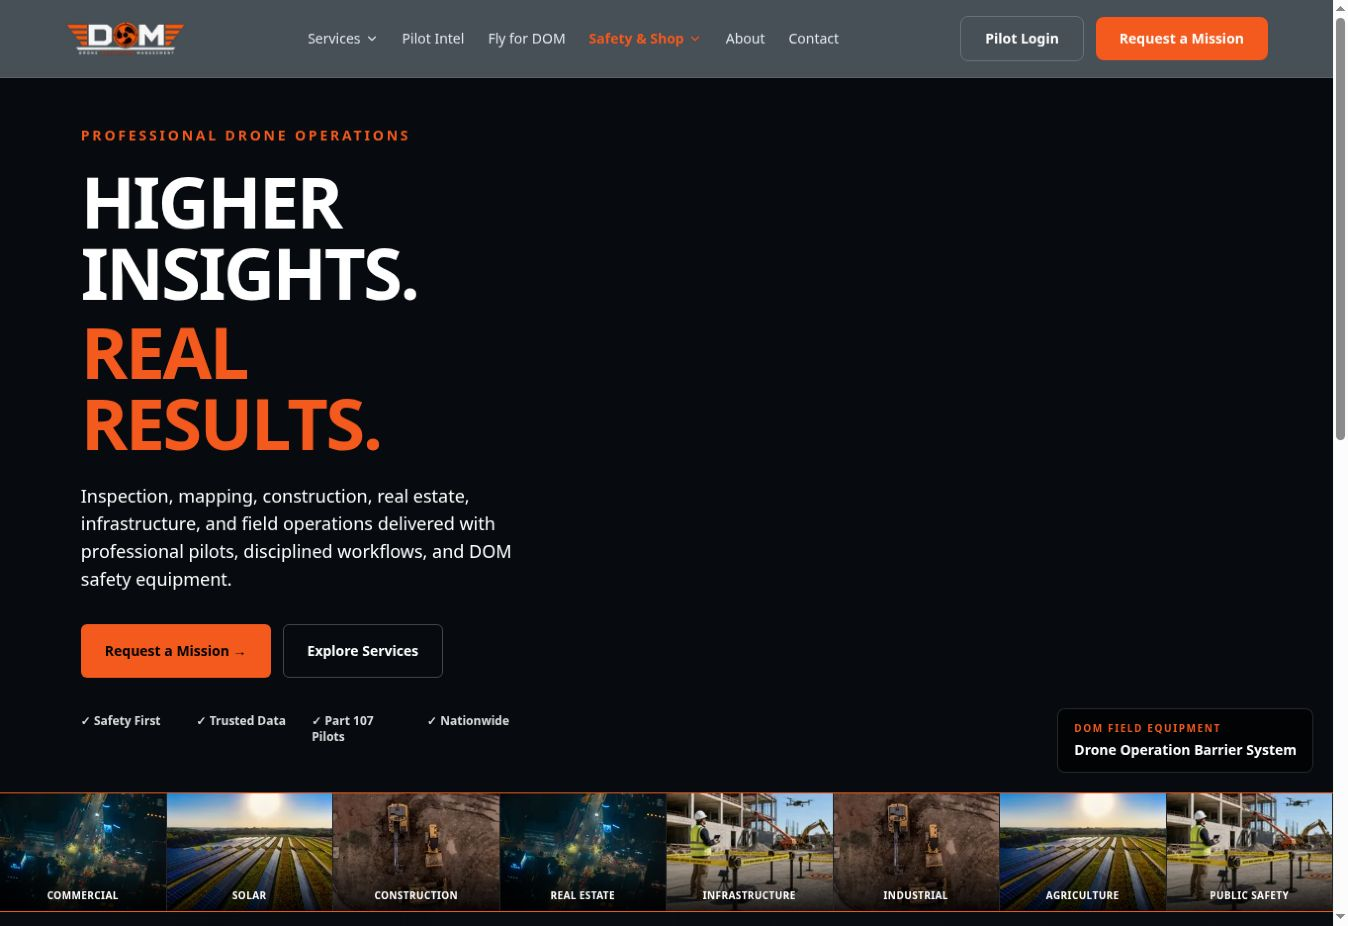
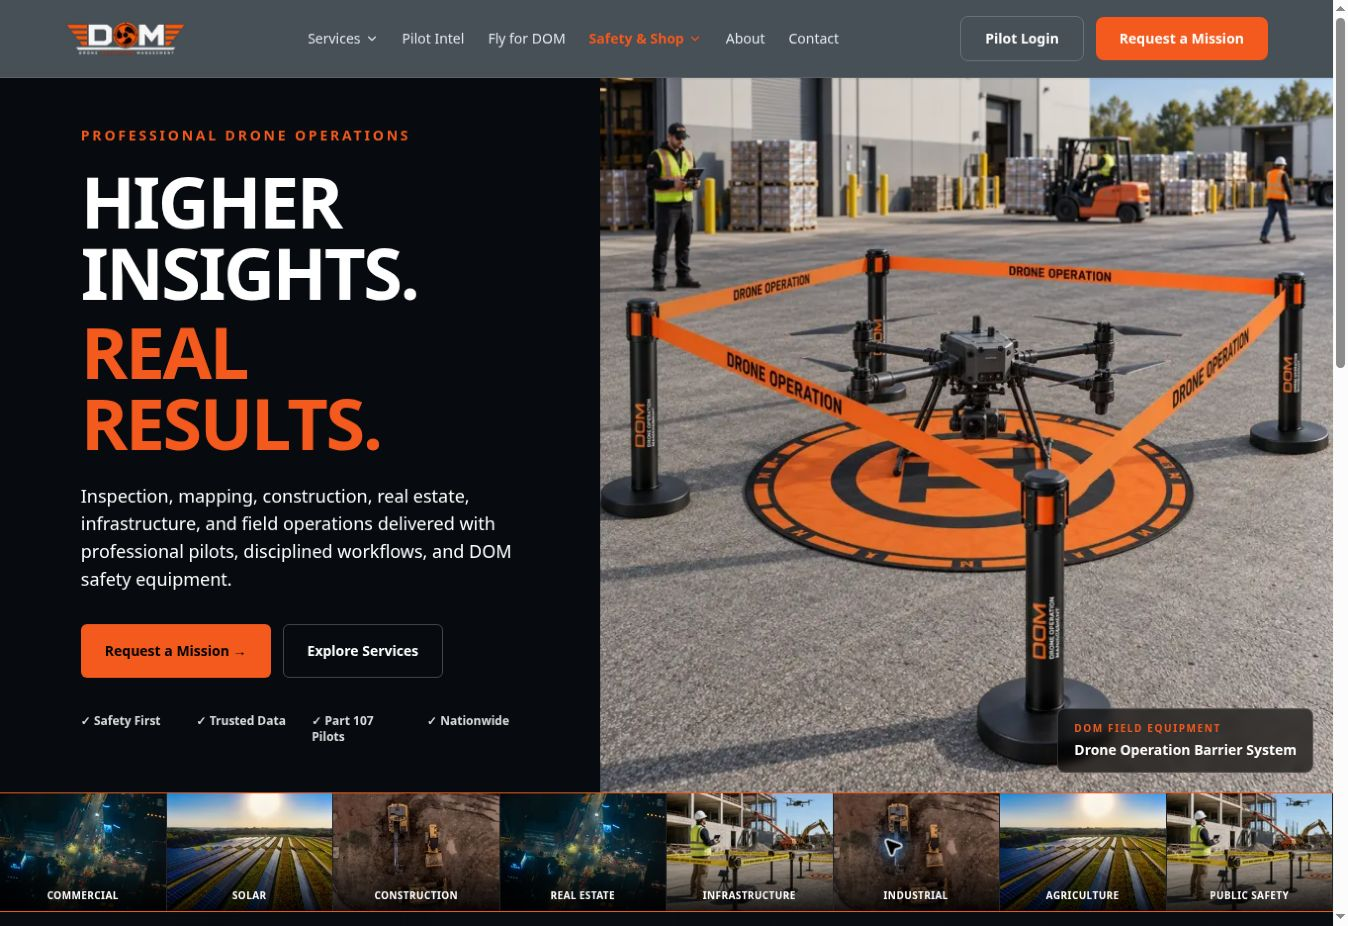
Refresh DroneOpsMan and add three portfolio projects

diff --git a/portfolio.html b/portfolio.html
@@ -1,1 +1,1 @@
-<!doctype html><html lang="en"><head><meta charset="utf-8"><meta name="viewport" content="width=device-width, initial-scale=1"><meta name="description" content="Selected websites and digital products developed by AI Gents, including marketplaces, service sites, and guided tools."><title>Portfolio | AI Gents</title><link rel="icon" type="image/png" href="images/logo-white.png"><link rel="preconnect" href="https://fonts.googleapis.com"><link rel="preconnect" href="https://fonts.gstatic.com" crossorigin><link href="https://fonts.googleapis.com/css2?family=Playfair+Display:ital,wght@0,400;0,500;0,600;1,400&family=DM+Sans:wght@400;500;600&display=swap" rel="stylesheet"><link rel="stylesheet" href="css/style.css"></head><body><nav class="site-nav" aria-label="Main navigation"><div class="wrap nav-inner"><a class="brand" href="index.html"><img src="images/logo-white.png" alt="" width="40" height="40"><span>AI <em>Gents</em></span></a><button class="menu-toggle" type="button" aria-label="Open menu" aria-expanded="false" aria-controls="site-links"><span></span><span></span><span></span></button><div class="nav-links" id="site-links"><a href="capabilities.html">Services</a><a href="operations.html">Field to Flow</a><a href="portfolio.html" aria-current="page">Portfolio</a><a href="about.html">About</a><a href="engage.html">Engage</a><a class="nav-action" href="contact.html">Speak with an AI Gent</a></div></div></nav><main><header class="page-head wrap portfolio-intro"><p class="eyebrow">Selected work</p><h1>Ideas made <em>usable.</em></h1><p class="lede">A selection of sites and digital products AI Gents has developed across marketplaces, operations, education, and consumer tools. These include our own ventures and related projects; they are examples of work, not claims about client results.</p></header><section class="section"><div class="wrap"><div class="portfolio-grid"><a class="project-card" href="https://alongside.guide/" target="_blank" rel="noopener noreferrer"><img class="project-thumb" src="images/portfolio/alongside-home.jpg" alt="AlongSide.Guide homepage" width="1358" height="933" loading="lazy"><span class="project-type">Guided marketplace</span><h3>AlongSide.Guide</h3><p>A place to connect with a skilled guide and work through a project together, with a clear path for people seeking help and professionals offering it.</p><span class="project-link">Visit site ↗</span></a><a class="project-card" href="https://www.tagoskitchen.com/" target="_blank" rel="noopener noreferrer"><img class="project-thumb" src="images/portfolio/tagos-home.jpg" alt="TaGo’s Kitchen homepage" width="1358" height="933" loading="lazy"><span class="project-type">Marketplace &amp; operations</span><h3>TaGo’s Kitchen</h3><p>A digital home for a shared kitchen network, bringing together kitchen discovery and the workflows behind chefs, locations, and bookings.</p><span class="project-link">Visit site ↗</span></a><a class="project-card" href="https://www.droneopsman.com/" target="_blank" rel="noopener noreferrer"><img class="project-thumb" src="images/portfolio/droneopsman-home.jpg" alt="Drone Operation Management homepage" width="1358" height="933" loading="lazy"><span class="project-type">Service website</span><h3>Drone Operation Management</h3><p>A clear service presence for commercial drone work, with mission intake, service details, and operational information.</p><span class="project-link">Visit site ↗</span></a><a class="project-card" href="https://www.corp-bonics.com/" target="_blank" rel="noopener noreferrer"><img class="project-thumb" src="images/portfolio/corp-bonics-home.jpg" alt="Corp-bonics homepage" width="1358" height="933" loading="lazy"><span class="project-type">Brand &amp; digital product</span><h3>Corp-bonics</h3><p>A satirical guide to corporate jargon, pairing a distinctive voice and character with an online dictionary and companion app.</p><span class="project-link">Visit site ↗</span></a><a class="project-card" href="https://www.shifted.systems/" target="_blank" rel="noopener noreferrer"><img class="project-thumb" src="images/portfolio/shifted-home.jpg" alt="SHIFTED homepage" width="1358" height="933" loading="lazy"><span class="project-type">Education &amp; product</span><h3>SHIFTED</h3><p>A shift work platform that brings the founder’s experience, educational material, and digital product direction into one coherent site.</p><span class="project-link">Visit site ↗</span></a><a class="project-card" href="https://survivorpacket.com/" target="_blank" rel="noopener noreferrer"><img class="project-thumb" src="images/portfolio/survivorpacket-home.jpg" alt="Survivor Packet homepage" width="1358" height="933" loading="lazy"><span class="project-type">Guided digital tool</span><h3>Survivor Packet</h3><p>A guided experience for organizing important family information and documents, with a public site that explains the process in plain language.</p><span class="project-link">Visit site ↗</span></a></div><p class="portfolio-note">Each site has its own audience and purpose. If your project needs a similar workflow, we can show you the relevant parts and discuss what would fit your organization.</p></div></section><section class="section cta-section"><div class="wrap"><p class="eyebrow">Your project</p><h2>Let’s make the next one useful.</h2><p class="section-lede">Tell us what your organization needs people to understand, complete, or manage. We will help define the right first step.</p><a class="button" href="contact.html">Speak with an AI Gent</a></div></section></main><footer class="footer"><div class="wrap footer-grid"><div><a class="brand" href="index.html"><img src="images/logo-white.png" alt="" width="40" height="40"><span>AI <em>Gents</em></span></a><p>Clearer work. Better systems.</p></div><div><h2>Explore</h2><a href="capabilities.html">Services</a><a href="operations.html">Field to Flow</a><a href="portfolio.html">Portfolio</a><a href="engage.html">How to engage</a><a href="faq.html">FAQ</a></div><div><h2>Company</h2><a href="about.html">About</a><a href="work.html">Delivery standards</a><a href="privacy.html">Privacy</a><a href="terms.html">Terms</a></div><div><h2>Contact</h2><a href="contact.html">Speak with an AI Gent</a><a href="mailto:contact@aigents.help">contact@aigents.help</a></div></div><div class="wrap footer-bottom">© 2026 AI Gents LLC.</div></footer><script src="js/main.js" defer></script></body></html>
+<!doctype html><html lang="en"><head><meta charset="utf-8"><meta name="viewport" content="width=device-width, initial-scale=1"><meta name="description" content="Selected websites and digital products developed by AI Gents, including marketplaces, service sites, and guided tools."><title>Portfolio | AI Gents</title><link rel="icon" type="image/png" href="images/logo-white.png"><link rel="preconnect" href="https://fonts.googleapis.com"><link rel="preconnect" href="https://fonts.gstatic.com" crossorigin><link href="https://fonts.googleapis.com/css2?family=Playfair+Display:ital,wght@0,400;0,500;0,600;1,400&family=DM+Sans:wght@400;500;600&display=swap" rel="stylesheet"><link rel="stylesheet" href="css/style.css"></head><body><nav class="site-nav" aria-label="Main navigation"><div class="wrap nav-inner"><a class="brand" href="index.html"><img src="images/logo-white.png" alt="" width="40" height="40"><span>AI <em>Gents</em></span></a><button class="menu-toggle" type="button" aria-label="Open menu" aria-expanded="false" aria-controls="site-links"><span></span><span></span><span></span></button><div class="nav-links" id="site-links"><a href="capabilities.html">Services</a><a href="operations.html">Field to Flow</a><a href="portfolio.html" aria-current="page">Portfolio</a><a href="about.html">About</a><a href="engage.html">Engage</a><a class="nav-action" href="contact.html">Speak with an AI Gent</a></div></div></nav><main><header class="page-head wrap portfolio-intro"><p class="eyebrow">Selected work</p><h1>Ideas made <em>usable.</em></h1><p class="lede">A selection of sites and digital products AI Gents has developed across marketplaces, operations, education, and consumer tools. These include our own ventures and related projects; they are examples of work, not claims about client results.</p></header><section class="section"><div class="wrap"><div class="portfolio-grid"><a class="project-card" href="https://alongside.guide/" target="_blank" rel="noopener noreferrer"><img class="project-thumb" src="images/portfolio/alongside-home.jpg" alt="AlongSide.Guide homepage" width="1358" height="933" loading="lazy"><span class="project-type">Guided marketplace</span><h3>AlongSide.Guide</h3><p>A place to connect with a skilled guide and work through a project together, with a clear path for people seeking help and professionals offering it.</p><span class="project-link">Visit site ↗</span></a><a class="project-card" href="https://www.tagoskitchen.com/" target="_blank" rel="noopener noreferrer"><img class="project-thumb" src="images/portfolio/tagos-home.jpg" alt="TaGo’s Kitchen homepage" width="1358" height="933" loading="lazy"><span class="project-type">Marketplace &amp; operations</span><h3>TaGo’s Kitchen</h3><p>A digital home for a shared kitchen network, bringing together kitchen discovery and the workflows behind chefs, locations, and bookings.</p><span class="project-link">Visit site ↗</span></a><a class="project-card" href="https://www.droneopsman.com/" target="_blank" rel="noopener noreferrer"><img class="project-thumb" src="images/portfolio/droneopsman-home.jpg" alt="Drone Operation Management homepage" width="1358" height="933" loading="lazy"><span class="project-type">Service website</span><h3>Drone Operation Management</h3><p>A commercial drone site connecting mission requests, field services, safety equipment, and the DOMINIC mapping workspace.</p><span class="project-link">Visit site ↗</span></a><a class="project-card" href="https://www.diantoniosdemo.com/" target="_blank" rel="noopener noreferrer"><img class="project-thumb" src="images/portfolio/diantonios-home.jpg" alt="DiAntonio’s Demo &amp; Hauling homepage" width="1358" height="933" loading="lazy"><span class="project-type">Local service website</span><h3>DiAntonio’s Demo &amp; Hauling</h3><p>A service site for demolition, cleanouts, hauling, and moving, with real job imagery, an estimate tool, and a clear quote path.</p><span class="project-link">Visit site ↗</span></a><a class="project-card" href="https://warreadyboxing.com/" target="_blank" rel="noopener noreferrer"><img class="project-thumb" src="images/portfolio/warready-home.jpg" alt="War Ready Boxing homepage" width="1358" height="933" loading="lazy"><span class="project-type">Gym &amp; member experience</span><h3>War Ready Boxing</h3><p>A distinctive boxing club site bringing training, memberships, events, and member access into one place.</p><span class="project-link">Visit site ↗</span></a><a class="project-card" href="https://corso-concrete.com/" target="_blank" rel="noopener noreferrer"><div class="project-thumb project-thumb-fallback" role="img" aria-label="Corso Concrete site preview unavailable"><span>Corso<br><strong>Concrete</strong></span><small>Preview temporarily unavailable</small></div><span class="project-type">Contractor website</span><h3>Corso Concrete</h3><p>A digital presence for a concrete business. The site preview is temporarily unavailable while its domain is not responding.</p><span class="project-link">Visit site ↗</span></a><a class="project-card" href="https://www.corp-bonics.com/" target="_blank" rel="noopener noreferrer"><img class="project-thumb" src="images/portfolio/corp-bonics-home.jpg" alt="Corp-bonics homepage" width="1358" height="933" loading="lazy"><span class="project-type">Brand &amp; digital product</span><h3>Corp-bonics</h3><p>A satirical guide to corporate jargon, pairing a distinctive voice and character with an online dictionary and companion app.</p><span class="project-link">Visit site ↗</span></a><a class="project-card" href="https://www.shifted.systems/" target="_blank" rel="noopener noreferrer"><img class="project-thumb" src="images/portfolio/shifted-home.jpg" alt="SHIFTED homepage" width="1358" height="933" loading="lazy"><span class="project-type">Education &amp; product</span><h3>SHIFTED</h3><p>A shift work platform that brings the founder’s experience, educational material, and digital product direction into one coherent site.</p><span class="project-link">Visit site ↗</span></a><a class="project-card" href="https://survivorpacket.com/" target="_blank" rel="noopener noreferrer"><img class="project-thumb" src="images/portfolio/survivorpacket-home.jpg" alt="Survivor Packet homepage" width="1358" height="933" loading="lazy"><span class="project-type">Guided digital tool</span><h3>Survivor Packet</h3><p>A guided experience for organizing important family information and documents, with a public site that explains the process in plain language.</p><span class="project-link">Visit site ↗</span></a></div><p class="portfolio-note">Each site has its own audience and purpose. If your project needs a similar workflow, we can show you the relevant parts and discuss what would fit your organization.</p></div></section><section class="section cta-section"><div class="wrap"><p class="eyebrow">Your project</p><h2>Let’s make the next one useful.</h2><p class="section-lede">Tell us what your organization needs people to understand, complete, or manage. We will help define the right first step.</p><a class="button" href="contact.html">Speak with an AI Gent</a></div></section></main><footer class="footer"><div class="wrap footer-grid"><div><a class="brand" href="index.html"><img src="images/logo-white.png" alt="" width="40" height="40"><span>AI <em>Gents</em></span></a><p>Clearer work. Better systems.</p></div><div><h2>Explore</h2><a href="capabilities.html">Services</a><a href="operations.html">Field to Flow</a><a href="portfolio.html">Portfolio</a><a href="engage.html">How to engage</a><a href="faq.html">FAQ</a></div><div><h2>Company</h2><a href="about.html">About</a><a href="work.html">Delivery standards</a><a href="privacy.html">Privacy</a><a href="terms.html">Terms</a></div><div><h2>Contact</h2><a href="contact.html">Speak with an AI Gent</a><a href="mailto:contact@aigents.help">contact@aigents.help</a></div></div><div class="wrap footer-bottom">© 2026 AI Gents LLC.</div></footer><script src="js/main.js" defer></script></body></html>

diff --git a/index.html b/index.html
@@ -26,6 +26,6 @@
 <article class="card"><h3>Build &amp; evolve.</h3><p>Our done-for-you implementation brings the agreed platform to life, with connected services, user testing, and handover. Expand as your needs grow.</p></article></div><p class="after-cards"><a class="text-link" href="operations.html">Discover Field to Flow →</a></p></div></section>
 <section class="section portfolio-feature"><div class="wrap"><p class="eyebrow">Selected work</p><h2>Distinct businesses. Purposeful platforms.</h2><p class="section-lede">Explore our own ventures and related projects, from shared-space marketplaces to service businesses.</p><div class="portfolio-grid">
 <a class="project-card" href="https://www.tagoskitchen.com/" target="_blank" rel="noopener noreferrer"><img class="project-thumb" src="images/portfolio/tagos-home.jpg" alt="TaGo’s Kitchen homepage" width="1358" height="933" loading="lazy"><span class="project-type">Marketplace &amp; operations</span><h3>TaGo’s Kitchen</h3><p>A digital home for a shared kitchen network, bringing together kitchen discovery and the workflows behind chefs, locations, and bookings.</p><span class="project-link">Explore the project ↗</span></a>
-<a class="project-card" href="https://www.droneopsman.com/" target="_blank" rel="noopener noreferrer"><img class="project-thumb" src="images/portfolio/droneopsman-home.jpg" alt="Drone Operation Management homepage" width="1358" height="933" loading="lazy"><span class="project-type">Service presentation &amp; intake</span><h3>Drone Operation Management</h3><p>A clear service presence for commercial drone work, with mission intake, service details, and operational information.</p><span class="project-link">Explore the project ↗</span></a></div><p class="after-cards"><a class="text-link" href="portfolio.html">View the portfolio →</a></p></div></section>
+<a class="project-card" href="https://www.droneopsman.com/" target="_blank" rel="noopener noreferrer"><img class="project-thumb" src="images/portfolio/droneopsman-home.jpg" alt="Drone Operation Management homepage" width="1358" height="933" loading="lazy"><span class="project-type">Service presentation &amp; intake</span><h3>Drone Operation Management</h3><p>A commercial drone site connecting mission requests, field services, safety equipment, and the DOMINIC mapping workspace.</p><span class="project-link">Explore the project ↗</span></a></div><p class="after-cards"><a class="text-link" href="portfolio.html">View the portfolio →</a></p></div></section>
 <section class="section cta-section"><div class="wrap"><p class="eyebrow">At your service</p><h2>Tell us how your business works.<br><em>Let’s build what comes next.</em></h2><p class="section-lede">Start with a conversation. We will identify the right first move and shape a platform that serves your customers, supports your team, and gives you greater command of your business.</p><a class="button" href="contact.html?service=platform">Speak with an AI Gent <span aria-hidden="true">↗</span></a></div></section>
 </main><footer class="footer"><div class="wrap footer-grid"><div><a class="brand" href="index.html"><img src="images/logo-white.png" alt="" width="40" height="40"><span>AI <em>Gents</em></span></a><p>Your business, exceptionally equipped.</p></div><div><h2>Explore</h2><a href="capabilities.html">Services</a><a href="operations.html">Field to Flow</a><a href="engage.html">How to engage</a><a href="faq.html">FAQ</a></div><div><h2>Company</h2><a href="about.html">About</a><a href="portfolio.html">Portfolio</a><a href="work.html">Delivery standards</a><a href="privacy.html">Privacy</a><a href="terms.html">Terms</a></div><div><h2>Contact</h2><a href="contact.html">Speak with an AI Gent</a><a href="mailto:contact@aigents.help">contact@aigents.help</a></div></div><div class="wrap footer-bottom">© 2026 AI Gents LLC.</div></footer><script src="js/main.js" defer></script></body></html>

diff --git a/css/style.css b/css/style.css
@@ -120,3 +120,8 @@
 #your-platform{scroll-margin-top:95px}
 @media(max-width:1100px){.platform-home .hero-layout{grid-template-columns:1fr;gap:44px;padding-top:65px}.platform-home .hero-copy h1{font-size:clamp(3rem,6.5vw,4.75rem)}.platform-preview{max-width:650px}.platform-screen{min-height:370px}.platform-capabilities .card{padding:25px}}
 @media(max-width:760px){.platform-home .hero-layout{padding-block:53px 60px;gap:38px}.platform-home .hero-copy h1{font-size:clamp(2.5rem,9.5vw,4rem)}.platform-home .hero-copy .eyebrow{font-size:.75rem}.platform-home .hero-actions{align-items:flex-start;gap:23px}.platform-preview{box-shadow:8px 8px 0 #191712}.platform-masthead{padding:17px 14px;gap:10px}.platform-label{font-size:1rem}.platform-caption{font-size:.7rem}.platform-view{font-size:.78rem;padding:14px 7px;min-height:50px}.platform-screen{padding:21px 17px;min-height:390px}.platform-screen h2{font-size:2rem}.screen-top{font-size:.58rem}.platform-principles .wrap{flex-direction:column;gap:10px;padding-block:20px}.platform-principles span{font-size:.82rem}.platform-capabilities .card{padding:27px}.capability-number{margin-bottom:18px}.gentleman-seal{width:70px;height:70px;margin-top:0}.platform-home .point-layout>div:first-child{display:flex;align-items:center;justify-content:space-between;gap:20px}.platform-home .point-layout .eyebrow{margin:0}.platform-preview-footer{padding-inline:15px}.platform-home .section h2{font-size:clamp(2rem,7.2vw,2.7rem)}}
+
+.project-thumb-fallback{display:flex;flex-direction:column;justify-content:space-between;gap:18px;padding:24px;background:#1d2229;color:var(--white);font:400 clamp(1.35rem,2.6vw,2.35rem)/1.13 var(--serif)}
+.project-thumb-fallback strong{font-weight:400;color:var(--gold)}
+.project-thumb-fallback small{font:500 .72rem/1.4 var(--sans);letter-spacing:.08em;text-transform:uppercase;color:var(--muted)}
+@media(max-width:760px){.project-thumb-fallback{padding:20px}}
